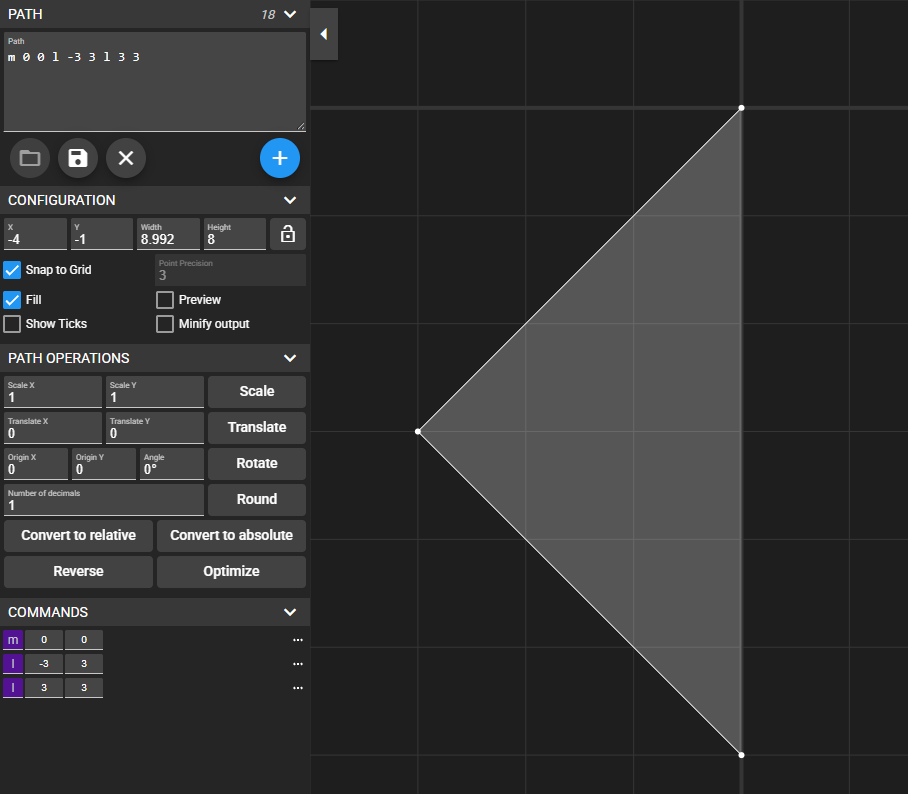
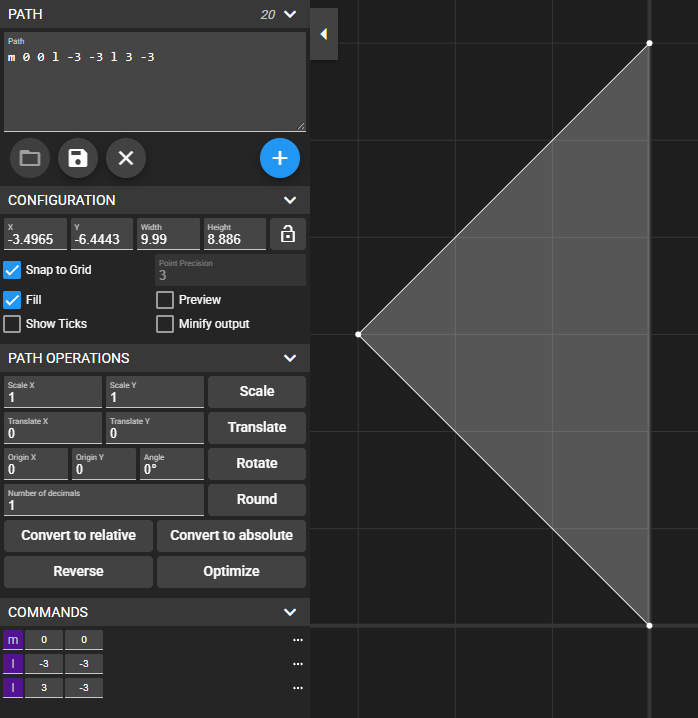
Images

diff --git a/docs/extensions/custom-shapes.md b/docs/extensions/custom-shapes.md
@@ -36,7 +36,7 @@ Now that you know the methods needed, we need to create the actual block shape. 
 
 Custom block shapes are created this way: we start from the top-left corner of the block, draw the left "edge", go to the bottom-right corner of the block, then draw the right "edge". You will be only creating the left and right edges.
 
-In this tutorial, we will be using [SvgPathEditor](https://yqnn.github.io/svg-path-editor/). Once you are in the editor, click the button with an **X** on it, and insert `m 0 0 l -3 -3 l 3 -3` into the Path input. The result should be something like this:
+In this tutorial, we will be using [SvgPathEditor](https://yqnn.github.io/svg-path-editor/), but you can use any other similar apps. Once you are in the editor, click the button with an **X** on it, and insert `m 0 0 l -3 -3 l 3 -3` into the Path input. The result should be something like this:
 
 ![SVG Path Editor](/images/custom-shapes-one.png)
 
